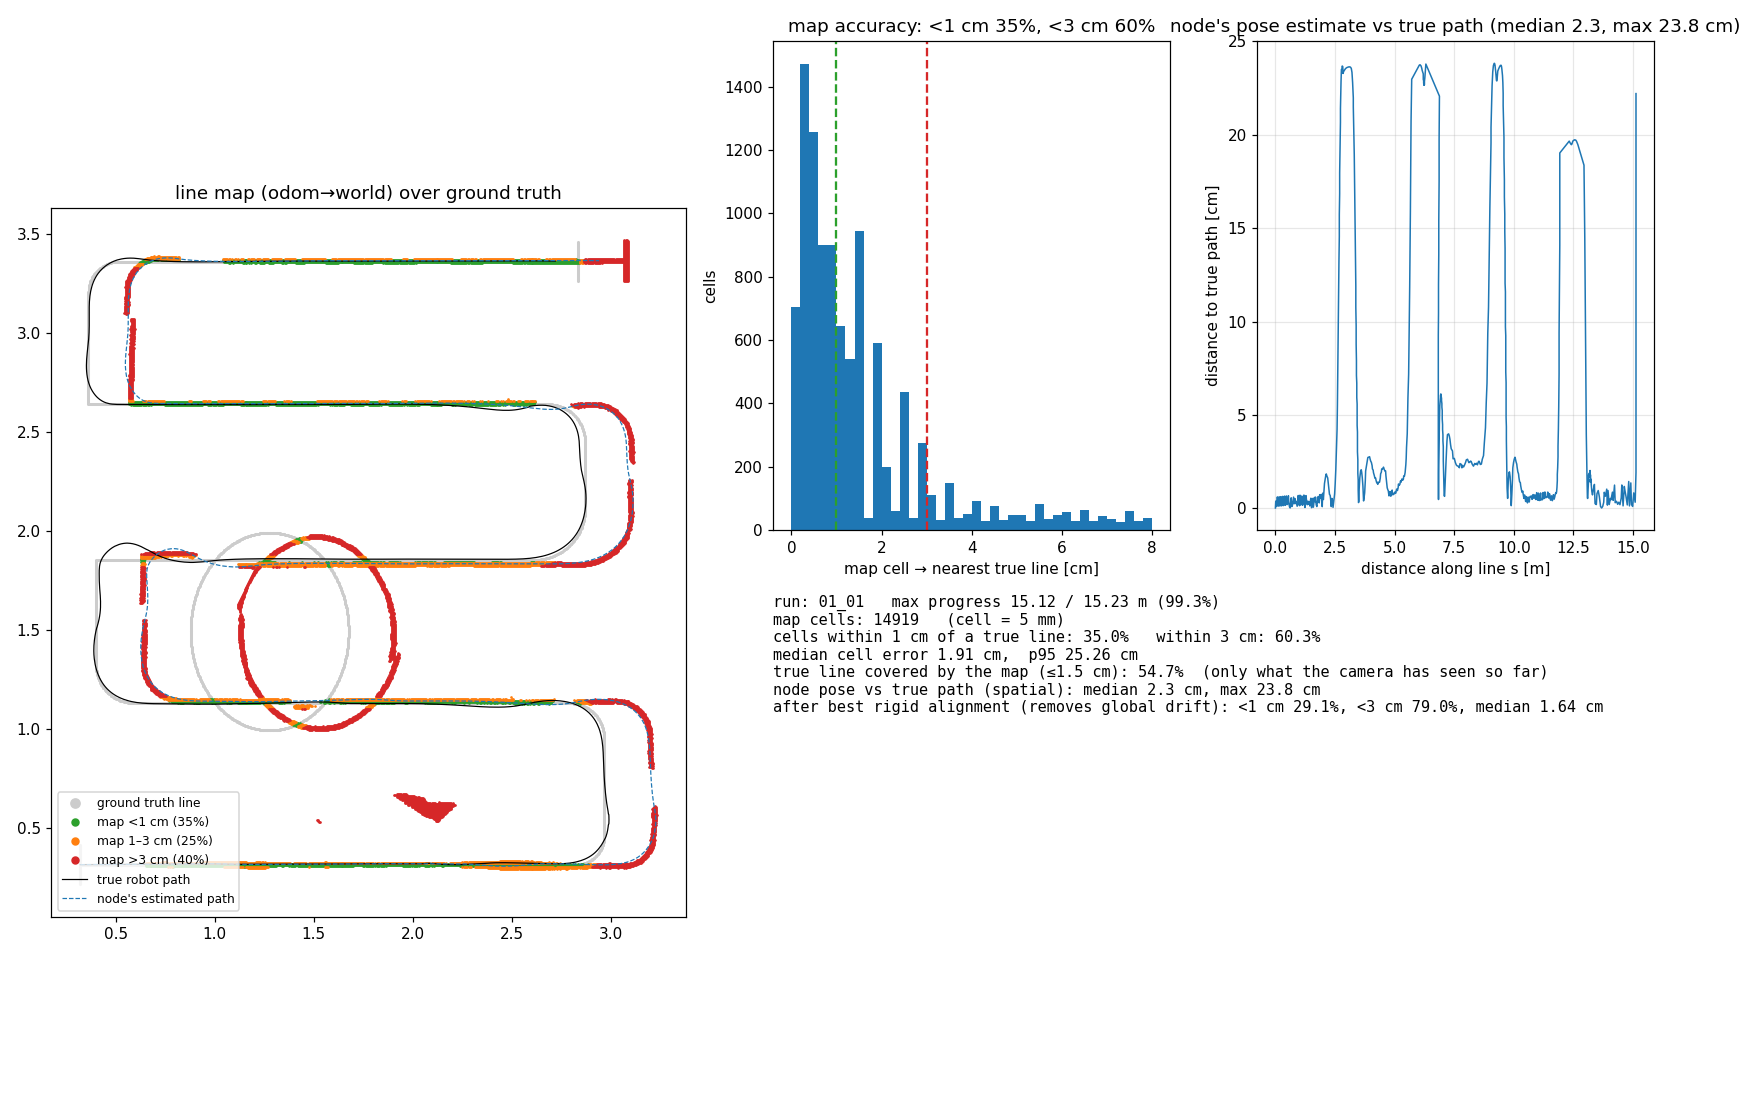
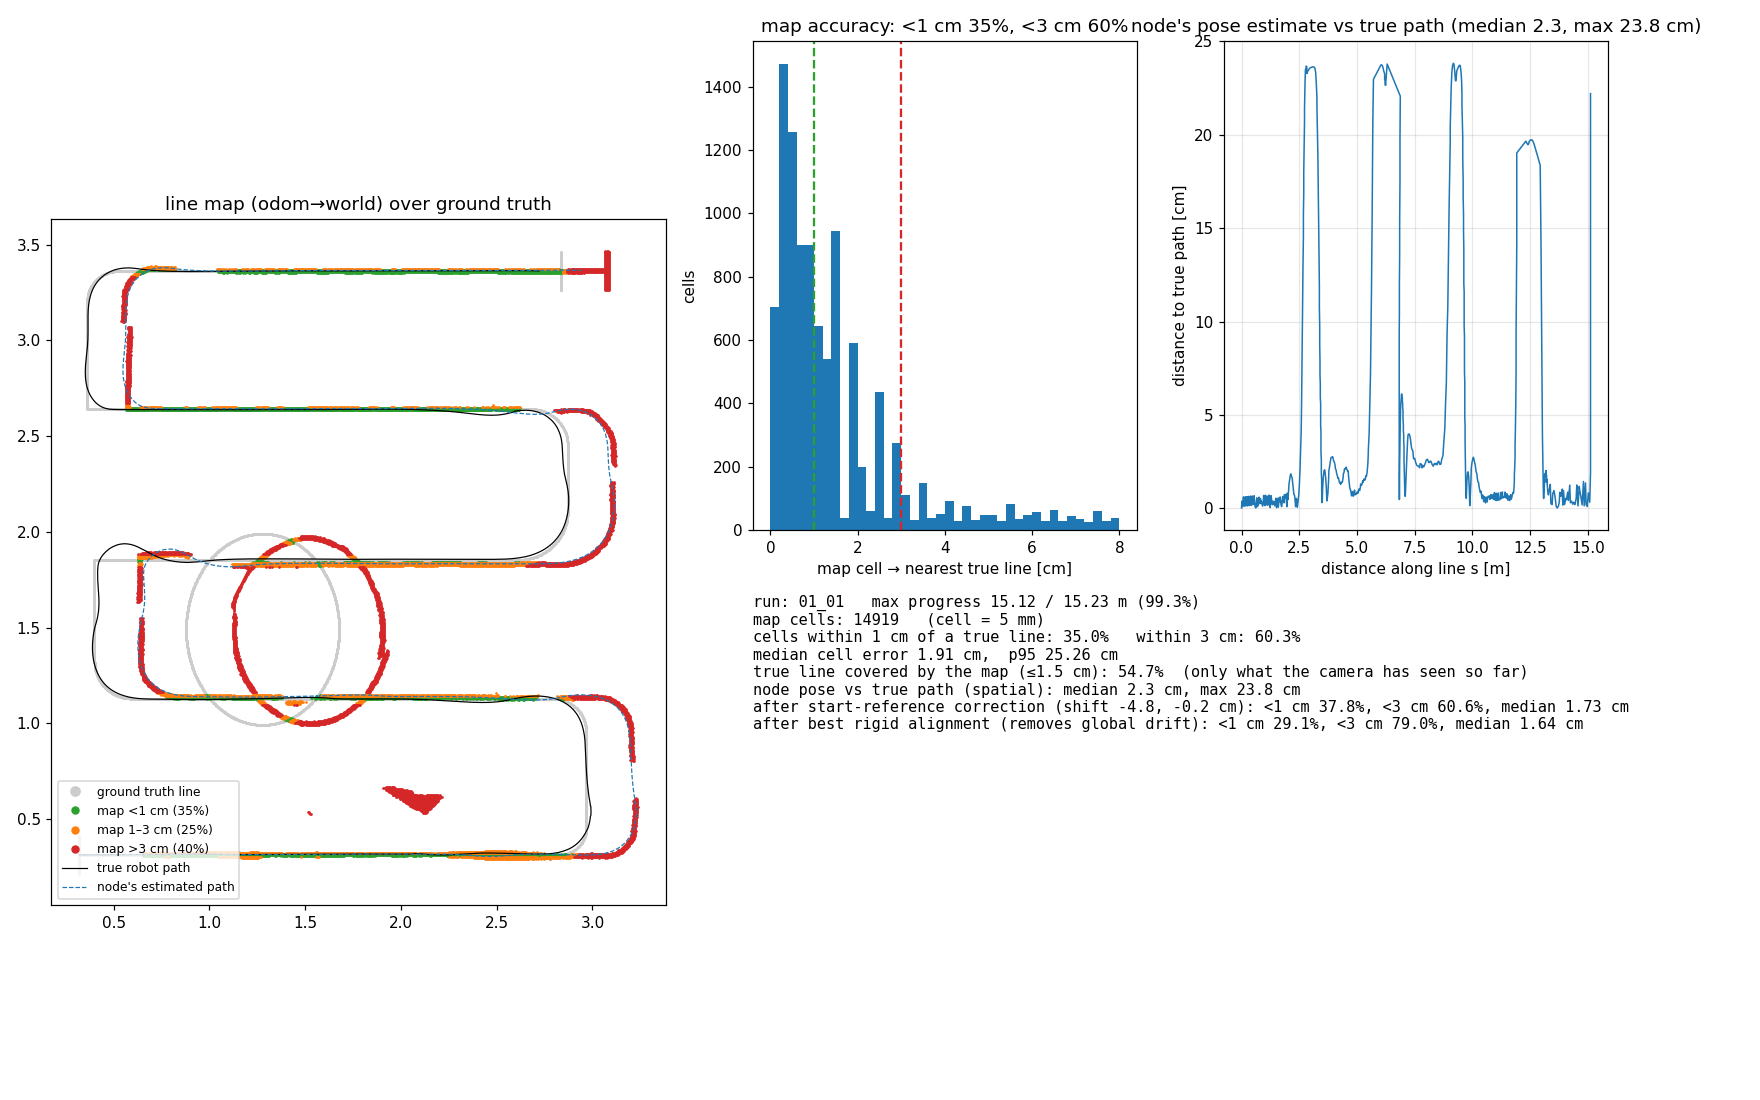
compare_map: start-reference correction; shows offset is added at sharp corners

diff --git a/experiments/user_base/compare_map.py b/experiments/user_base/compare_map.py
@@ -56,6 +56,26 @@ def main(dump, run, out, world_json=None):
     R = np.array([[np.cos(yaw0), -np.sin(yaw0)], [np.sin(yaw0), np.cos(yaw0)]])
     to_world = lambda p: p @ R.T + np.array([x0, y0])  # noqa: E731
     wcells = to_world(cells)
+    # reference-point correction: the node's odom origin need not coincide with the true
+    # spawn point. Fit a pure translation using only map cells seen in the first 1.5 m
+    # of the track (start straight), then compare shapes from that common reference.
+    start = dense(centre[centre[:, 2] <= 1.5, :2]) if (centre[:, 2] <= 1.5).sum() > 1 else dense(centre[:8, :2])
+    near = nearest(wcells, start) < 0.15
+    if near.sum() > 50:
+        from_pts = wcells[near]
+        shift = np.zeros(2)
+        for _ in range(10):
+            try:
+                from scipy.spatial import cKDTree
+                idx = cKDTree(start).query(from_pts + shift)[1]
+            except ImportError:
+                idx = np.array([np.argmin(((start - p) ** 2).sum(1)) for p in from_pts + shift])
+            shift = (start[idx] - from_pts).mean(0)
+        # along a straight only the perpendicular part is observable; keep it bounded
+        ref_shift = shift
+    else:
+        ref_shift = np.zeros(2)
+    wcells_ref = wcells + ref_shift
     est = to_world(poses[:, 1:3]) if len(poses) else np.zeros((0, 2))
 
     lines = [dense(centre[:, :2])]
@@ -65,6 +85,7 @@ def main(dump, run, out, world_json=None):
     gt = np.vstack(lines)
 
     err = nearest(wcells, gt)                   # map cell -> nearest true line point
+    err_ref = nearest(wcells_ref, gt)           # same, after the start-reference correction
     seen_gt = gt[nearest(gt, wcells) < 0.015]   # true line covered by the map
     ok1, ok3 = (err < 0.01).mean(), (err < 0.03).mean()
 
@@ -145,6 +166,8 @@ def main(dump, run, out, world_json=None):
         txt.append(f"node pose vs true path (spatial): median {np.median(drift)*100:.1f} cm, max {drift.max()*100:.1f} cm")
     if not world_json:
         txt.append("note: official track GT = centre line only; T bars at start/finish show as >3 cm.")
+    txt.append(f"after start-reference correction (shift {ref_shift[0]*100:+.1f}, {ref_shift[1]*100:+.1f} cm): "
+               f"<1 cm {(err_ref<.01).mean():.1%}, <3 cm {(err_ref<.03).mean():.1%}, median {np.median(err_ref)*100:.2f} cm")
     txt.append(f"after best rigid alignment (removes global drift): <1 cm {(err_al<.01).mean():.1%}, "
                f"<3 cm {(err_al<.03).mean():.1%}, median {np.median(err_al)*100:.2f} cm")
     s.text(0, 1, "\n".join(txt), va="top", family="monospace", fontsize=10)
@@ -155,6 +178,9 @@ def main(dump, run, out, world_json=None):
                    gt_covered=round(covered, 4), max_progress_m=round(reach, 3),
                    drift_max_cm=round(float(drift.max()) * 100, 1) if drift is not None else None,
                    drift_median_cm=round(float(np.median(drift)) * 100, 1) if drift is not None else None,
+                   ref_shift_cm=[round(float(v) * 100, 1) for v in ref_shift],
+                   ref_within_1cm=round(float((err_ref < .01).mean()), 4),
+                   ref_within_3cm=round(float((err_ref < .03).mean()), 4),
                    aligned_within_1cm=round(float((err_al < .01).mean()), 4),
                    aligned_within_3cm=round(float((err_al < .03).mean()), 4))
     print(json.dumps(summary))
